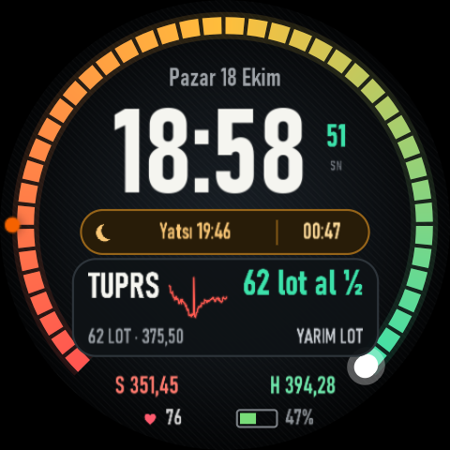
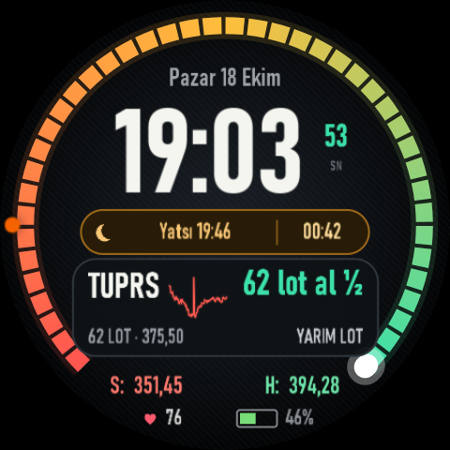
WatchApp: stop/hedef etiketi 'S:  ' / 'H:  '

diff --git a/WatchApp/app/src/main/java/com/biokpl/gridwatch/Complications.kt b/WatchApp/app/src/main/java/com/biokpl/gridwatch/Complications.kt
@@ -52,12 +52,12 @@ private fun kzData(s: Snapshot): ComplicationData = when (s.mode) {
 }
 
 private fun stopData(s: Snapshot): ComplicationData =
-    if (s.stop > 0 && s.mode != Snapshot.Mode.WAIT) short("S ${fmtPrice(s.stop)}", "Stop ${fmtPrice(s.stop)}")
+    if (s.stop > 0 && s.mode != Snapshot.Mode.WAIT) short("S:  ${fmtPrice(s.stop)}", "Stop ${fmtPrice(s.stop)}")
     else if (s.mode == Snapshot.Mode.WAIT) short("${s.trades} işlem")
     else short(" ")
 
 private fun targetData(s: Snapshot): ComplicationData =
-    if (s.target > 0 && s.mode != Snapshot.Mode.WAIT) short("H ${fmtPrice(s.target)}", "Hedef ${fmtPrice(s.target)}")
+    if (s.target > 0 && s.mode != Snapshot.Mode.WAIT) short("H:  ${fmtPrice(s.target)}", "Hedef ${fmtPrice(s.target)}")
     else if (s.mode == Snapshot.Mode.WAIT) short("%${s.winRate} isabet")
     else short(" ")
 
